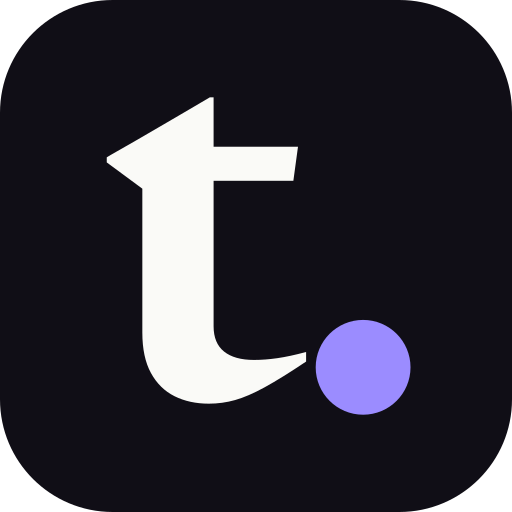
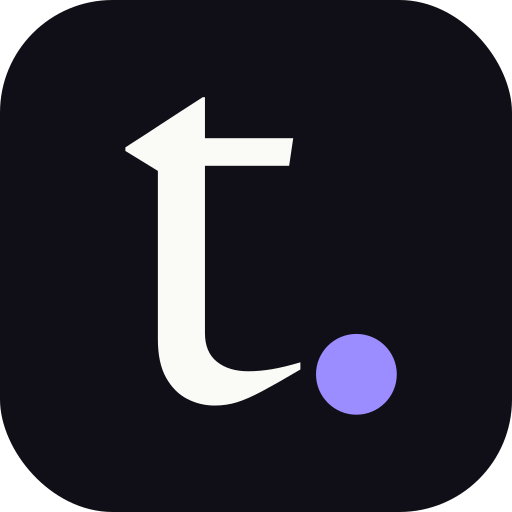
Thinner Tenthlook wordmark (Newsreader Regular 400)

diff --git a/scripts/make-logo.py b/scripts/make-logo.py
@@ -1,4 +1,4 @@
-"""Build Tenthlook logo SVGs: Newsreader SemiBold outlines + a real circle dot."""
+"""Build Tenthlook logo SVGs: Newsreader Regular outlines + a real circle dot."""
 # Usage: python scripts/make-logo.py <outdir>, run from a directory containing font/Newsreader.ttf
 # (Newsreader[opsz,wght].ttf from github.com/google/fonts/tree/main/ofl/newsreader). Needs fonttools, uharfbuzz.
 # Coordinates were then rounded to 0.1 units for file size.
@@ -14,11 +14,11 @@ TRACK=-0.015   # em; "slightly tightened"
 DOT=1.12       # dot radius relative to Newsreader's period (enlarged 12%, 2026-11-17)
 
 def instance(opsz):
-    f=TTFont(SRC); return instantiateVariableFont(f,{"wght":600,"opsz":opsz})
+    f=TTFont(SRC); return instantiateVariableFont(f,{"wght":400,"opsz":opsz})
 
 def shape(text,opsz):
     blob=hb.Blob.from_file_path(SRC); face=hb.Face(blob); font=hb.Font(face)
-    font.set_variations({"wght":600,"opsz":opsz})
+    font.set_variations({"wght":400,"opsz":opsz})
     buf=hb.Buffer(); buf.add_str(text); buf.guess_segment_properties()
     hb.shape(font,buf,{"kern":True,"liga":False})
     return [(i.codepoint,p.x_advance,p.x_offset,p.y_offset) for i,p in zip(buf.glyph_infos,buf.glyph_positions)]

diff --git a/brand/README.md b/brand/README.md
@@ -6,6 +6,6 @@
   `icon-touch.svg` is the full-bleed square used for the 180px apple-touch-icon.
 - `icon-{16,32,48,128,180,512}.png`, `/favicon.ico` (16/32/48), `/apple-touch-icon.png` (180).
 
-Letterforms are Newsreader SemiBold (wght 600, opsz 72), shaped with HarfBuzz at -0.015em tracking and
+Letterforms are Newsreader Regular (wght 400, opsz 72), shaped with HarfBuzz at -0.015em tracking and
 converted to outlines, so the SVGs need no font. The dot is an SVG circle sized from Newsreader's
 own period glyph, enlarged 12% (icon-small: a further 1.45x). Newsreader is licensed under the SIL Open Font License 1.1 (`NEWSREADER-OFL.txt`).
